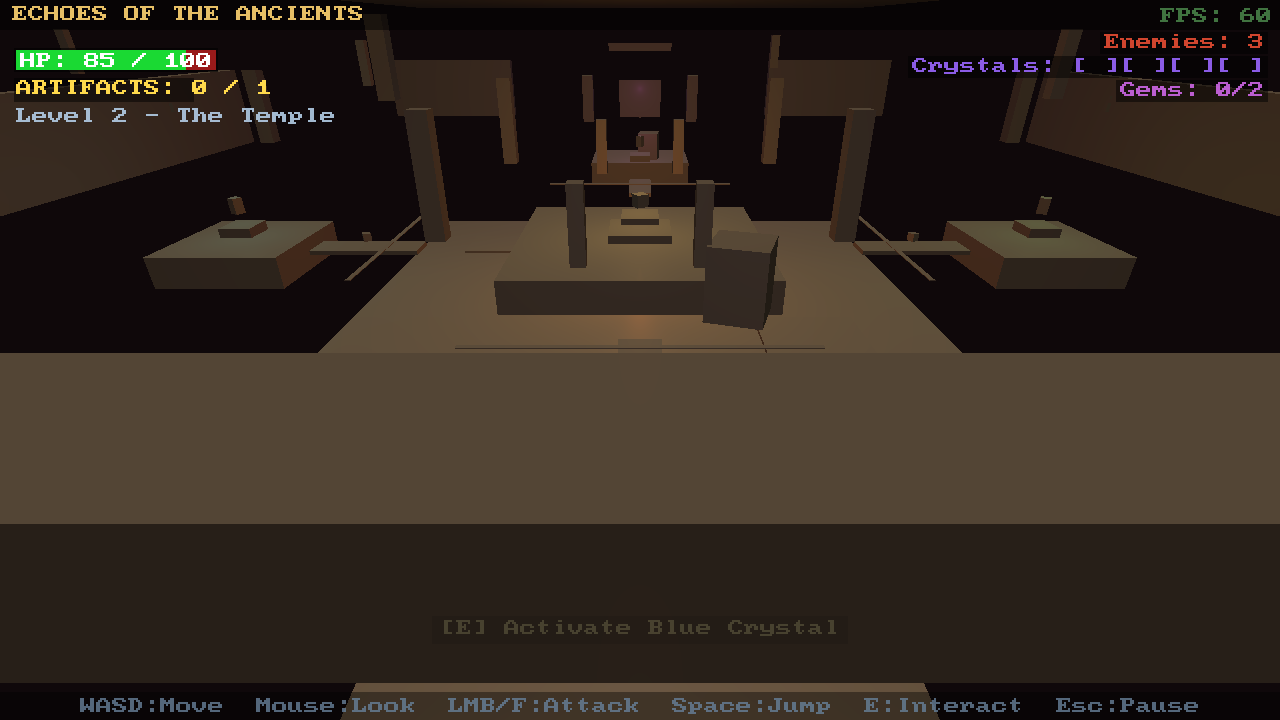
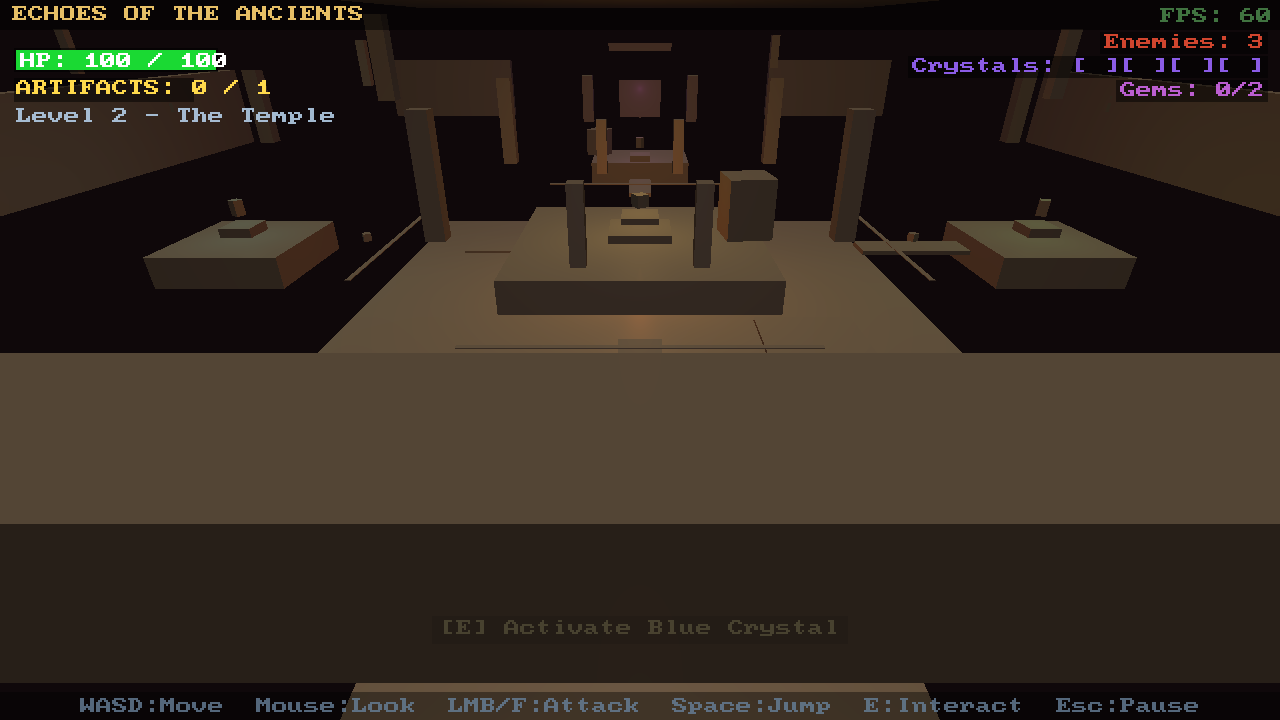
docs(process): selective screenshot policy + refreshed demo screenshots
Director process review (Session 107):
- build-engineer.md: added Screenshot section — selective capture only when
  PM specifies a list, demo-to-subsystem mapping, parallel capture, output
  paths; clarified FULL build trigger to "end of entire numbered phase"
- project-manager.md: added Screenshot Policy section with demo-to-subsystem
  mapping, added Screenshots: field to Phase 5 dispatch format, clarified
  FULL trigger

Refreshed screenshots (8 demos, both docs/ and website/docs/assets/):
  showcase_menu, showcase_level1, showcase_level2, showcase_level3,
  collect_stars, pong, breakout, 3d_demo

Screenshots reflect Session 105-106 bug fixes: mouse axis correction,
terrain centering, dynamic spawn height, fox.glb flat-face normals,
HDR FBO black-sky fix, keyboard/mouse input latching.

diff --git a/.claude/agents/build-engineer.md b/.claude/agents/build-engineer.md
@@ -20,8 +20,8 @@ cmake --build build 2>&1 | tail -20
 ctest --test-dir build --output-on-failure --parallel $(nproc) 2>&1 | tail -40
 ```
 
-#### FULL (end of phase, platform porting, or PM explicitly requests)
-Both compilers in parallel using `run_in_background`. ~7 minutes total.
+#### FULL (end of an entire numbered phase, platform porting, or PM explicitly requests)
+Use FULL at the end of a complete numbered phase (e.g., Phase 8 complete, Phase 9 complete) — NOT at the end of a milestone within a phase. Milestones use FAST. Both compilers in parallel using `run_in_background`. ~7 minutes total.
 
 1. **Start both simultaneously** (same message, both with `run_in_background=true`, timeout=600000):
    - Clang-18: `cd /home/nigel/FastFreeEngine && cmake -B build -G Ninja -DCMAKE_CXX_COMPILER=clang++-18 -DCMAKE_BUILD_TYPE=Debug -DFFE_TIER=LEGACY && cmake --build build && ctest --test-dir build --output-on-failure --parallel $(nproc) 2>&1`
@@ -52,6 +52,54 @@ Your report to PM must include:
 - You do not write code, edit files, or modify the build system.
 - You do not make engineering decisions about what to change.
 - You are a reporter, not a fixer.
+
+### Screenshots
+
+Screenshots are ONLY taken when PM's Phase 5 dispatch instructions include an explicit `Screenshots:` list. **No list from PM = no screenshots.** This is correct and expected — most sessions produce no visual changes and should produce zero screenshots.
+
+#### Demo-to-Subsystem Mapping
+
+This table is for reference. PM uses it to build the list; you use it to sanity-check that the list is reasonable.
+
+| Changed subsystem | Demos to screenshot |
+|---|---|
+| `engine/renderer/` (any renderer change) | 3d_demo, showcase_menu, showcase_level1, showcase_level2, showcase_level3 |
+| `engine/renderer/terrain*` | showcase_level1, showcase_level3 |
+| `engine/physics/` 3D | 3d_demo |
+| `engine/networking/` | net_arena |
+| `engine/audio/` | collect_stars |
+| `examples/collect_stars/` | collect_stars |
+| `examples/pong/` | pong |
+| `examples/breakout/` | breakout |
+| `examples/3d_demo/` | 3d_demo |
+| `examples/net_arena/` | net_arena |
+| `examples/showcase/` | showcase_menu, showcase_level1, showcase_level2, showcase_level3 |
+| `engine/scripting/`, `engine/core/`, `tests/`, `docs/` | none |
+
+#### How to Take Screenshots
+
+Output path: `docs/assets/screenshots/<demo_name>.png`. After a successful capture, also copy the file to `website/docs/assets/screenshots/<demo_name>.png` if that directory exists.
+
+Use `tools/take_screenshot.sh` from the repo root:
+
+```bash
+./tools/take_screenshot.sh <demo_binary> <output_png> [wait_seconds] [lua_script]
+```
+
+**When taking multiple screenshots, launch them all in parallel** using `run_in_background=true`. Each invocation selects its own free Xvfb display number so concurrent captures do not interfere. Wait for all background tasks to complete before reporting.
+
+Example for a session that changed `engine/renderer/` and `examples/showcase/`:
+
+```bash
+# All launched as parallel background tasks simultaneously:
+./tools/take_screenshot.sh build/clang-release/examples/runtime/ffe_runtime docs/assets/screenshots/showcase_menu.png 5 examples/showcase/game.lua
+./tools/take_screenshot.sh build/clang-release/examples/runtime/ffe_runtime docs/assets/screenshots/showcase_level1.png 5 examples/showcase/level1.lua
+./tools/take_screenshot.sh build/clang-release/examples/runtime/ffe_runtime docs/assets/screenshots/showcase_level2.png 5 examples/showcase/level2.lua
+./tools/take_screenshot.sh build/clang-release/examples/runtime/ffe_runtime docs/assets/screenshots/showcase_level3.png 5 examples/showcase/level3.lua
+./tools/take_screenshot.sh build/clang-release/examples/3d_demo/ffe_3d_demo docs/assets/screenshots/3d_demo.png 4
+```
+
+Include in your report: which demos were captured, output paths, file sizes, and any failures.
 
 ### When Build Fails
 

diff --git a/.claude/agents/project-manager.md b/.claude/agents/project-manager.md
@@ -55,7 +55,10 @@ PHASE 4 — Remediation
 
 PHASE 5 — Build + Test
   [sequential] build-engineer: <FAST or FULL, with instructions>
+  Screenshots: <comma-separated demo names, or "none">
 ```
+
+The `Screenshots:` line is required in every Phase 5 dispatch. It tells build-engineer exactly which demos to capture — and nothing else. Omitting it or writing "none" means no screenshots are taken this session.
 
 ### Maximising Parallelism (High Priority)
 
@@ -74,6 +77,33 @@ PHASE 5 — Build + Test
 The overhead of spawning a parallel agent is ~30 seconds. The time saved by parallelism on a 5+ file feature is 3-10 minutes. Always prefer parallelism.
 
 You prevent scope creep. If a task grows beyond what was planned you flag it rather than silently expanding. You ask one clarifying question at a time when something is unclear rather than a paragraph of questions.
+
+### Screenshot Policy
+
+Screenshots are a visual verification tool — they exist so you and the user can see what changed. They are NOT a routine checklist item. **The default for every session is no screenshots.**
+
+When writing Phase 5 dispatch instructions, determine the screenshot list by examining what changed in the session:
+
+| Changed subsystem | Demos to screenshot |
+|---|---|
+| `engine/renderer/` (any renderer change) | 3d_demo, showcase_menu, showcase_level1, showcase_level2, showcase_level3 |
+| `engine/renderer/terrain*` | showcase_level1, showcase_level3 |
+| `engine/physics/` 3D | 3d_demo |
+| `engine/networking/` | net_arena |
+| `engine/audio/` | collect_stars |
+| `examples/collect_stars/` | collect_stars |
+| `examples/pong/` | pong |
+| `examples/breakout/` | breakout |
+| `examples/3d_demo/` | 3d_demo |
+| `examples/net_arena/` | net_arena |
+| `examples/showcase/` | showcase_menu, showcase_level1, showcase_level2, showcase_level3 |
+| `engine/scripting/`, `engine/core/`, `tests/`, `docs/` | none |
+
+Rules:
+- **Always include `Screenshots: none`** when the session made no changes to `examples/`, `engine/renderer/`, or any other visually-affecting subsystem. Do not take screenshots just because it is a habit.
+- **List only the demos affected** by what actually changed. If only `examples/pong/` changed, the list is `pong` — not all 8 demos.
+- A session touching `engine/renderer/` broadly (e.g., a new post-processing pass) warrants capturing all renderer-affected demos so the visual result can be verified.
+- build-engineer captures exactly what this list specifies — nothing more.
 
 ### Session Closeout
 
